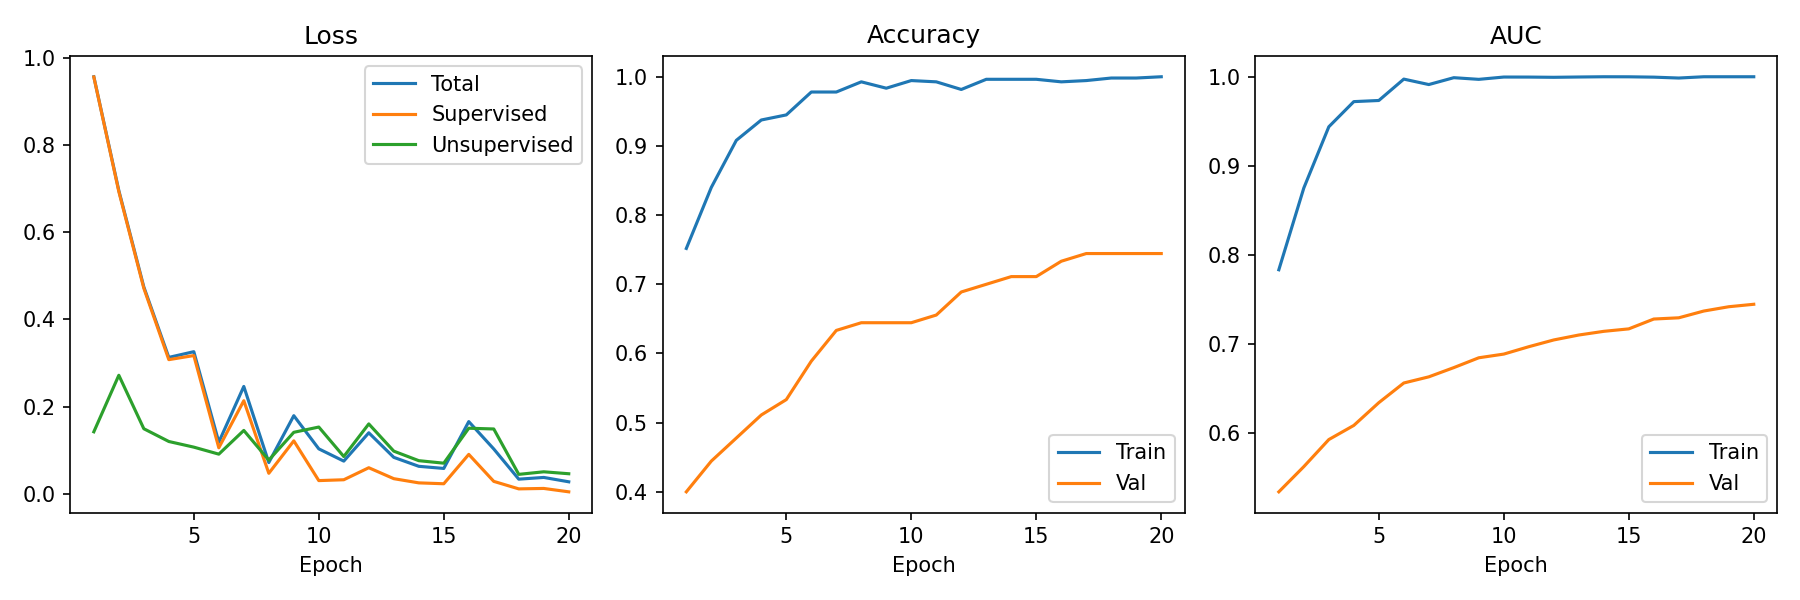
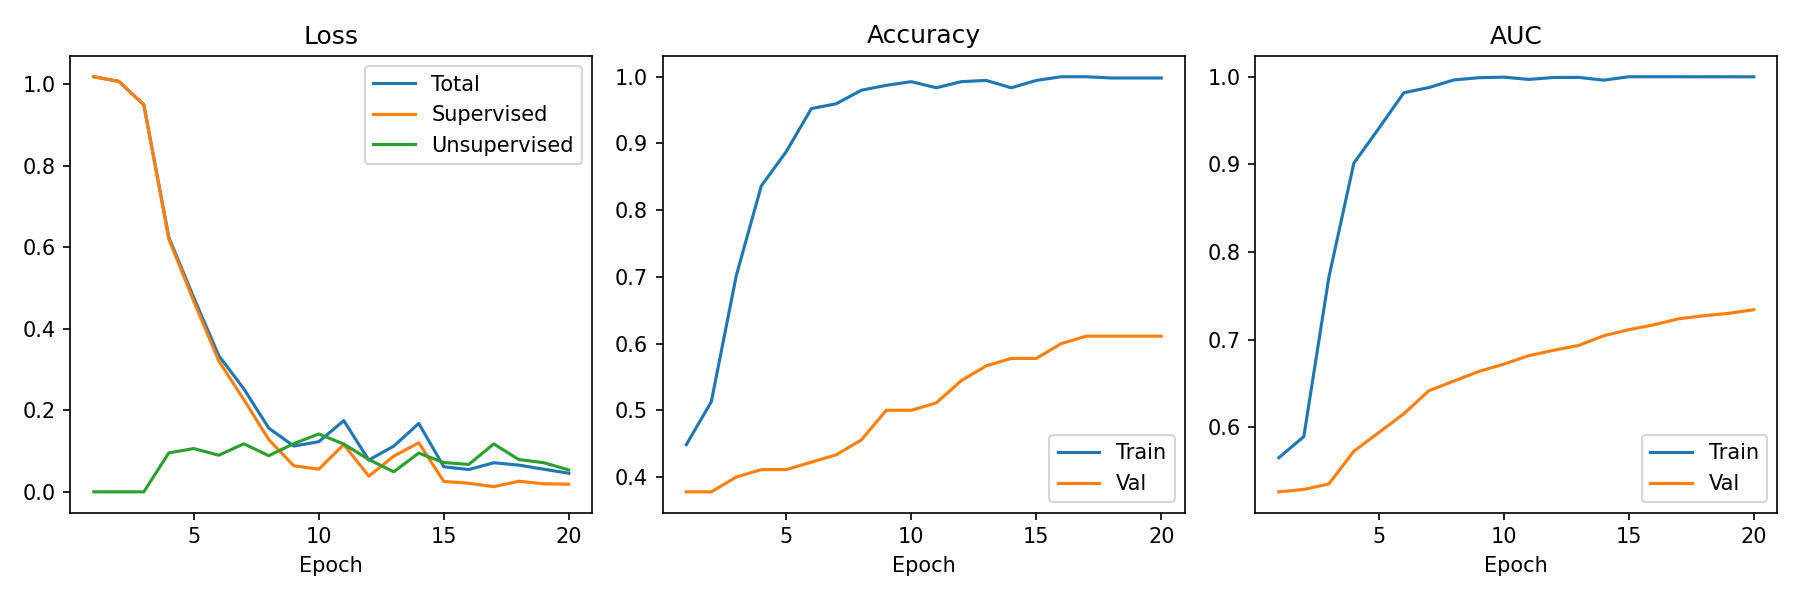
Update FixMatch and FlexMatch settings for improved training dynamics; adjust tau values, disable asymmetric tau and top-k masking, and modify bias initialization in the model based on class distribution. Update training history with new loss metrics.

diff --git a/lesion_classification/trainer.py b/lesion_classification/trainer.py
@@ -82,10 +82,7 @@ def _class_ratio_thresholds(pseudo_labels: torch.Tensor, base_tau: float, min_ta
 
 
 def _asymmetric_thresholds(pseudo_labels: torch.Tensor, base_tau: float) -> torch.Tensor:
-    if settings.FIXMATCH_TAU <= 0:
-        scale = 1.0
-    else:
-        scale = base_tau / settings.FIXMATCH_TAU
+    scale = 1.0 if settings.FIXMATCH_TAU <= 0 else base_tau / settings.FIXMATCH_TAU
     return torch.where(
         pseudo_labels > 0.5,
         torch.tensor(settings.FIXMATCH_TAU_POS * scale, device=pseudo_labels.device),
@@ -194,9 +191,7 @@ def train_one_epoch_fixmatch(
             confidence = torch.maximum(weak_probs, 1 - weak_probs)
             pseudo_labels = (weak_probs >= 0.5).float()
             if settings.FIXMATCH_TAU_SCHEDULE:
-                base_tau = settings.FIXMATCH_TAU_START + (settings.FIXMATCH_TAU_END - settings.FIXMATCH_TAU_START) * min(
-                    epoch / max(1, settings.FIXMATCH_TAU_SCHEDULE_EPOCHS), 1.0
-                )
+                base_tau = settings.FIXMATCH_TAU_START + (settings.FIXMATCH_TAU_END - settings.FIXMATCH_TAU_START) * min(epoch / max(1, settings.FIXMATCH_TAU_SCHEDULE_EPOCHS), 1.0)
             else:
                 base_tau = settings.FIXMATCH_TAU
             use_flexmatch = settings.FLEXMATCH_ENABLE and epoch >= settings.FLEXMATCH_WARMUP_EPOCHS
@@ -217,10 +212,7 @@ def train_one_epoch_fixmatch(
 
             strong_logits = model(strong_imgs)
             unsup_loss = F.binary_cross_entropy_with_logits(strong_logits, pseudo_labels, reduction="none")
-            if settings.FIXMATCH_USE_TOPK:
-                mask = _topk_mask(confidence, pseudo_labels)
-            else:
-                mask = (confidence >= thresholds).float()
+            mask = _topk_mask(confidence, pseudo_labels) if settings.FIXMATCH_USE_TOPK else (confidence >= thresholds).float()
             if settings.SOFT_PSEUDO_LABELS:
                 denom = (1 - thresholds).clamp_min(1e-6)
                 weights = ((confidence - thresholds) / denom).clamp(0, 1)

diff --git a/lesion_classification/config.py b/lesion_classification/config.py
@@ -44,27 +44,27 @@ class Settings(BaseSettings):
     USE_WEIGHTED_SAMPLER: bool = False
 
     # Semi-supervised settings (FixMatch)
-    FIXMATCH_TAU: float = 0.85
-    FIXMATCH_TAU_POS: float = 0.8
-    FIXMATCH_TAU_NEG: float = 0.9
-    FIXMATCH_USE_ASYMMETRIC_TAU: bool = True
-    FIXMATCH_TAU_SCHEDULE: bool = True
+    FIXMATCH_TAU: float = 0.95
+    FIXMATCH_TAU_POS: float = 0.95
+    FIXMATCH_TAU_NEG: float = 0.95
+    FIXMATCH_USE_ASYMMETRIC_TAU: bool = False
+    FIXMATCH_TAU_SCHEDULE: bool = False
     FIXMATCH_TAU_START: float = 0.95
     FIXMATCH_TAU_END: float = 0.85
     FIXMATCH_TAU_SCHEDULE_EPOCHS: int = 8
-    FIXMATCH_LAMBDA_U: float = 0.5
+    FIXMATCH_LAMBDA_U: float = 0.3
     FIXMATCH_RAMPUP_EPOCHS: int = 10
     FIXMATCH_MIN_TAU: float = 0.4
-    FIXMATCH_USE_CLASS_THRESHOLDS: bool = True
+    FIXMATCH_USE_CLASS_THRESHOLDS: bool = False
     FIXMATCH_DISTRIBUTION_ALIGNMENT: bool = True
     FIXMATCH_DA_MOMENTUM: float = 0.9
     FIXMATCH_SHARPEN_T: float = 1.0
-    FLEXMATCH_ENABLE: bool = True
+    FLEXMATCH_ENABLE: bool = False
     FLEXMATCH_MOMENTUM: float = 0.7
     SOFT_PSEUDO_LABELS: bool = True
     FLEXMATCH_WARMUP_EPOCHS: int = 5
     FLEXMATCH_TAU_MIN: float = 0.85
-    FIXMATCH_USE_TOPK: bool = True
+    FIXMATCH_USE_TOPK: bool = False
     FIXMATCH_TOPK_POS: int = 8
     FIXMATCH_TOPK_NEG: int = 16
 

diff --git a/lesion_classification/main.py b/lesion_classification/main.py
@@ -82,6 +82,11 @@ def main():
     # 4. Model
     backbone, feature_dim = get_convnext_tiny(pre_trained=settings.PRE_TRAINED)
     model = ClassifierModel(backbone, feature_dim, settings.NUM_CLASSES)
+    if malignant_count > 0 and benign_count > 0:
+        prior = malignant_count / (benign_count + malignant_count)
+        bias_value = math.log(prior / (1 - prior))
+        with torch.no_grad():
+            model.classifier.bias.fill_(bias_value)
 
     # 5. Optimizer, Loss, Scheduler
     optimizer = _build_optimizer(model)
